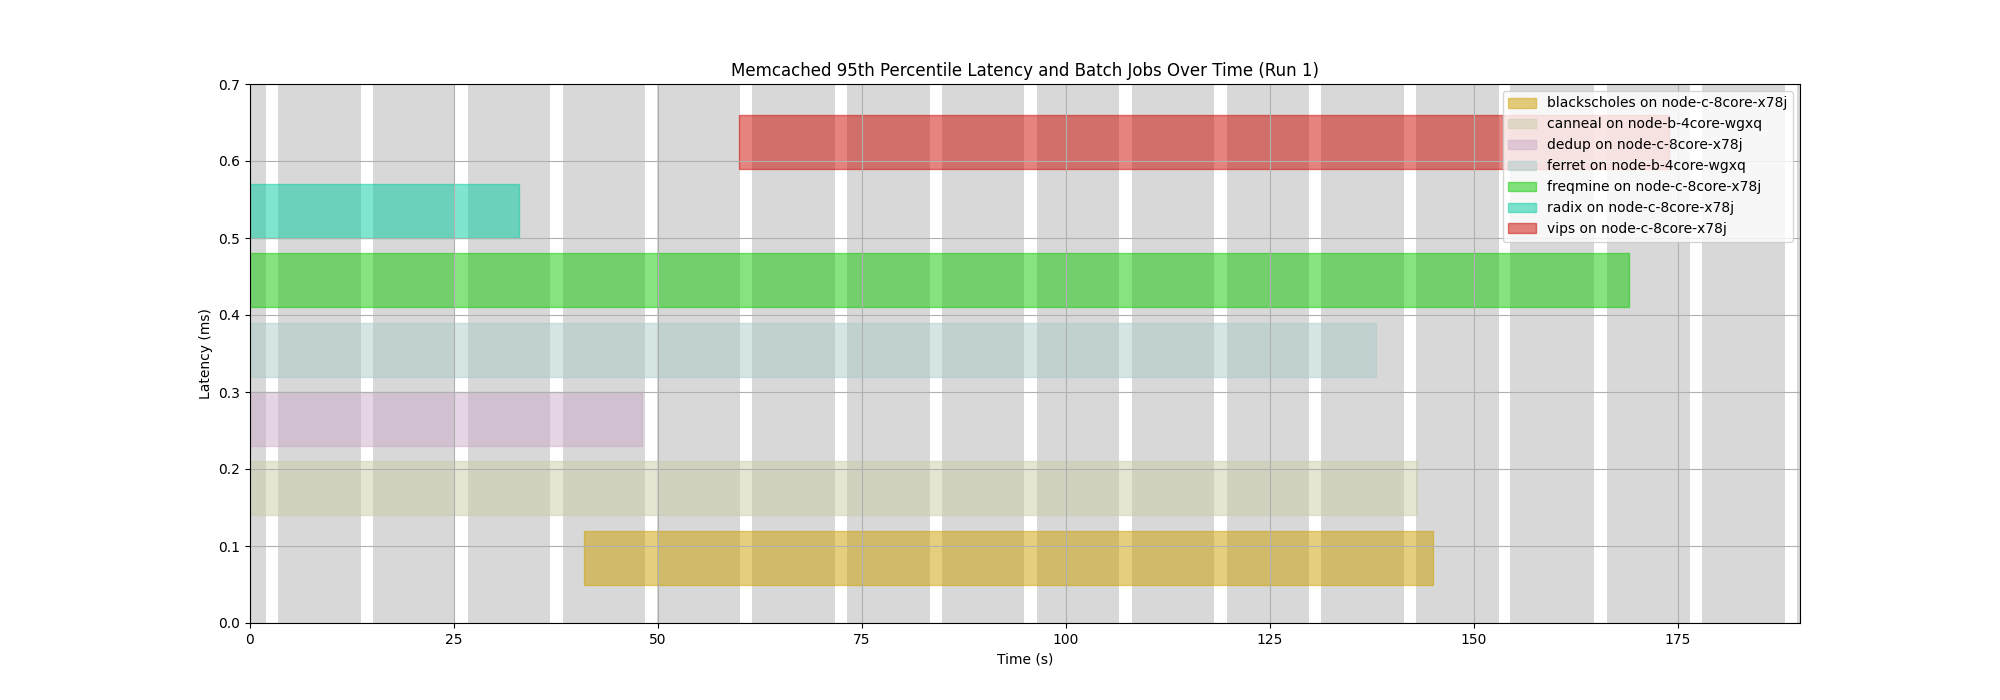
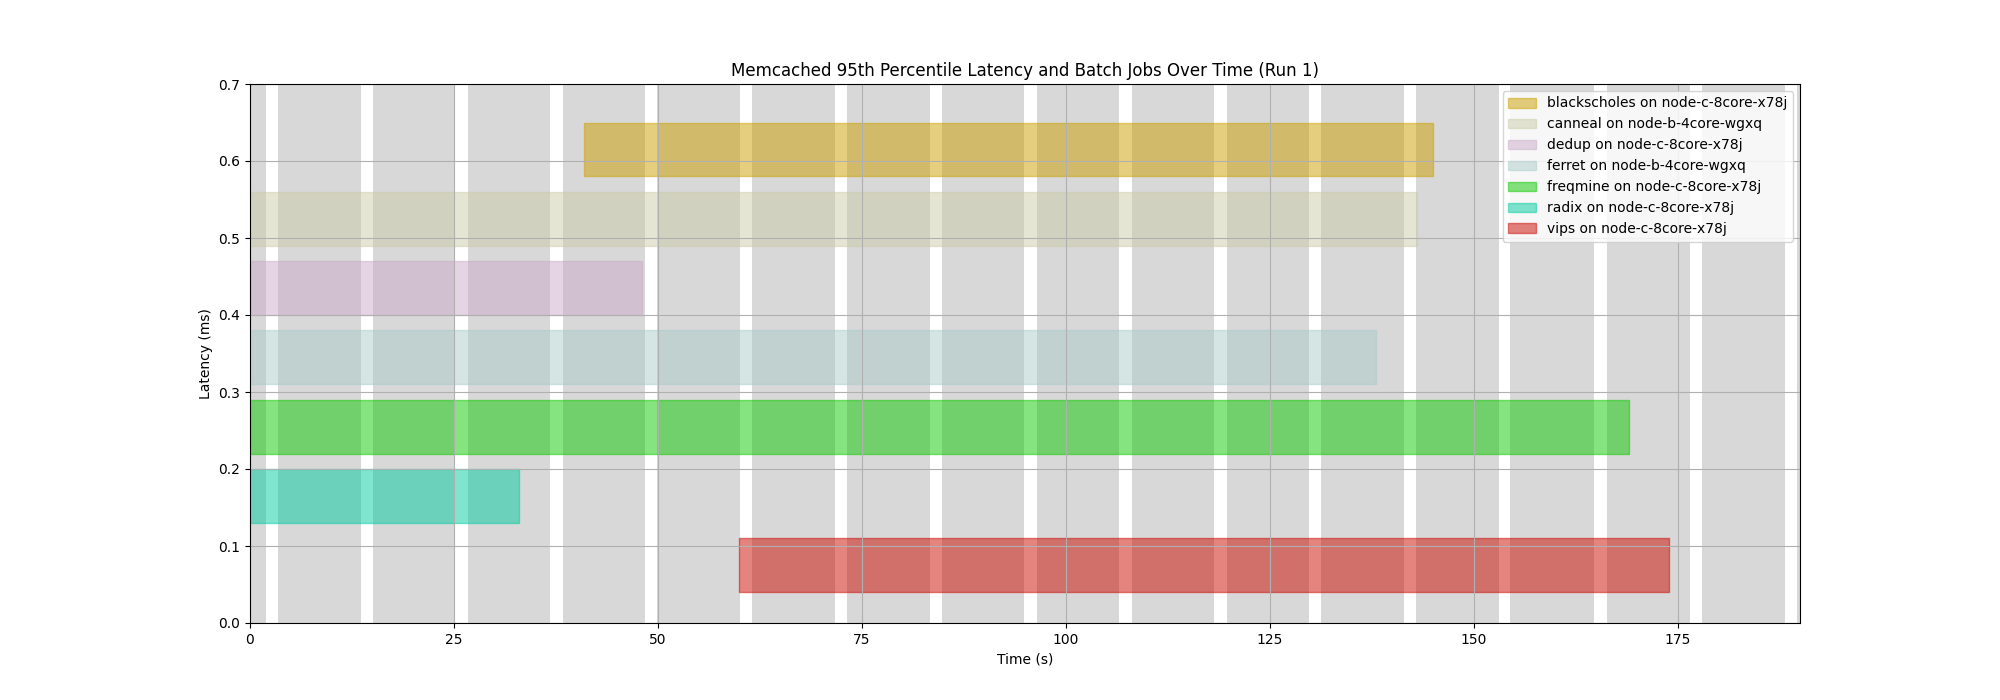
changed visualization of the plots of part3

Changed region(s): [[0.124, 0.54, 0.837, 0.87], [0.124, 0.15, 0.837, 0.48]]

diff --git a/python_scripts/plot_part3_q1.py b/python_scripts/plot_part3_q1.py
@@ -71,16 +71,16 @@ def plot_latency(mcperf_data, pods_data, run_number):
 
     # Plotting the batch jobs
     job_height = 0.07  # Height of the batch job bands
-    y_offset = 0.05  # Start height of the first batch job
+    y_offset = 0.65  # Start height of the first batch job
     for index, row in pods_data.iterrows():
         job_name = row['name']
         color = color_map.get(job_name.split('-')[0], 'grey')
-        plt.fill_betweenx(y=[y_offset, y_offset + job_height],
+        plt.fill_betweenx(y=[y_offset, y_offset - job_height],
                           x1=row['start_time_rel'], x2=row['end_time_rel'],
                           color=color, alpha=0.5, label=f"{job_name} on {row['node']}")
 
         # Update the offset for the next job
-        y_offset += job_height + 0.02
+        y_offset -= job_height + 0.02
 
     # Customize the plot
     plt.title(f'Memcached 95th Percentile Latency and Batch Jobs Over Time (Run {run_number})')
